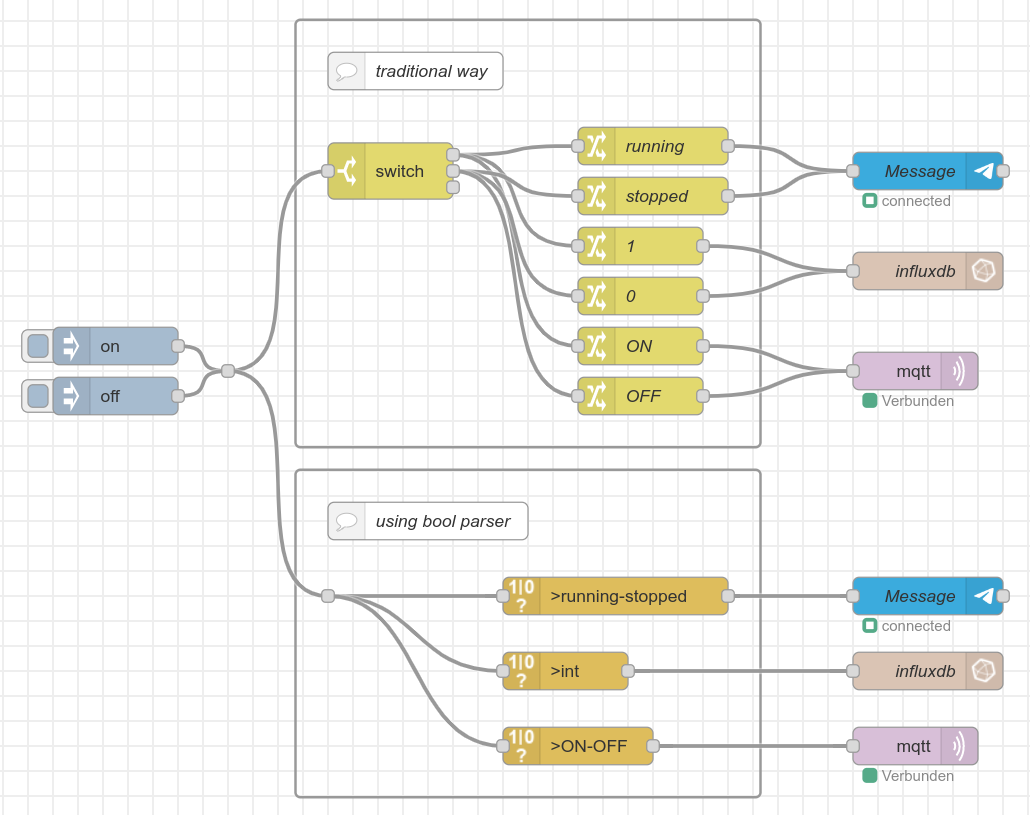
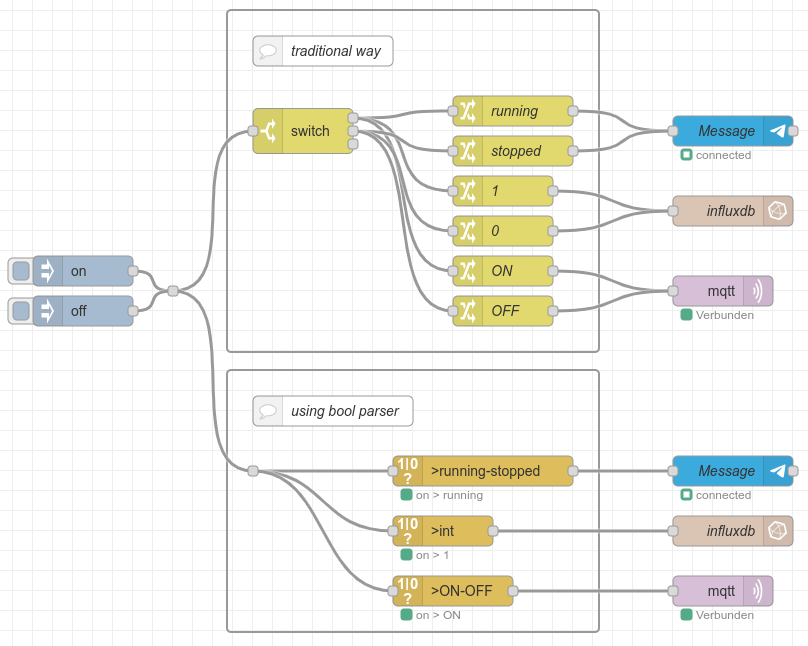
add docs for node status

Changed region(s): [[0.2475, 0.0, 0.9901, 0.9907], [0.0, 0.3715, 0.2475, 0.5263], [0.8045, 0.8978, 0.8354, 0.9288]]

diff --git a/README.md b/README.md
@@ -104,6 +104,15 @@ All input values which represent a supportet output format are detected automati
 * "" -> false
 * 42 -> true
 
+### Input status
+
+The last processed value is displayed as node status:
+
+* **Color**: true (green), false (red), null (grey)
+* **Text**: _input value_ > _output value_, (#) if flow was stopped
+
+![Node status](assets/node-status.png "Node status")
+
 ### Handle null value
 
 If a value cant't be treaten as true or false, (e.g. _null_), it will be handled as defined by _Handle null values_:
@@ -127,7 +136,7 @@ See [JSON](examples/conversion.json) for import.
 
 See [JSON](examples/Handle Null.json) for import.
 
-### Null handling
+### Split outputs
 
 ![Example: Single vs split outputs](assets/example-single-split-output.png "Example: Single vs split outputs")
 
@@ -135,7 +144,7 @@ See [JSON](examples/single-split-output.json) for import.
 
 ## Known Issues
 
-* ?
+* Input values like _undefined_, _unknown_, _invalid_, _undefined_, ... should be handled al _null_ automatically.
 
 ## Contribute
 
